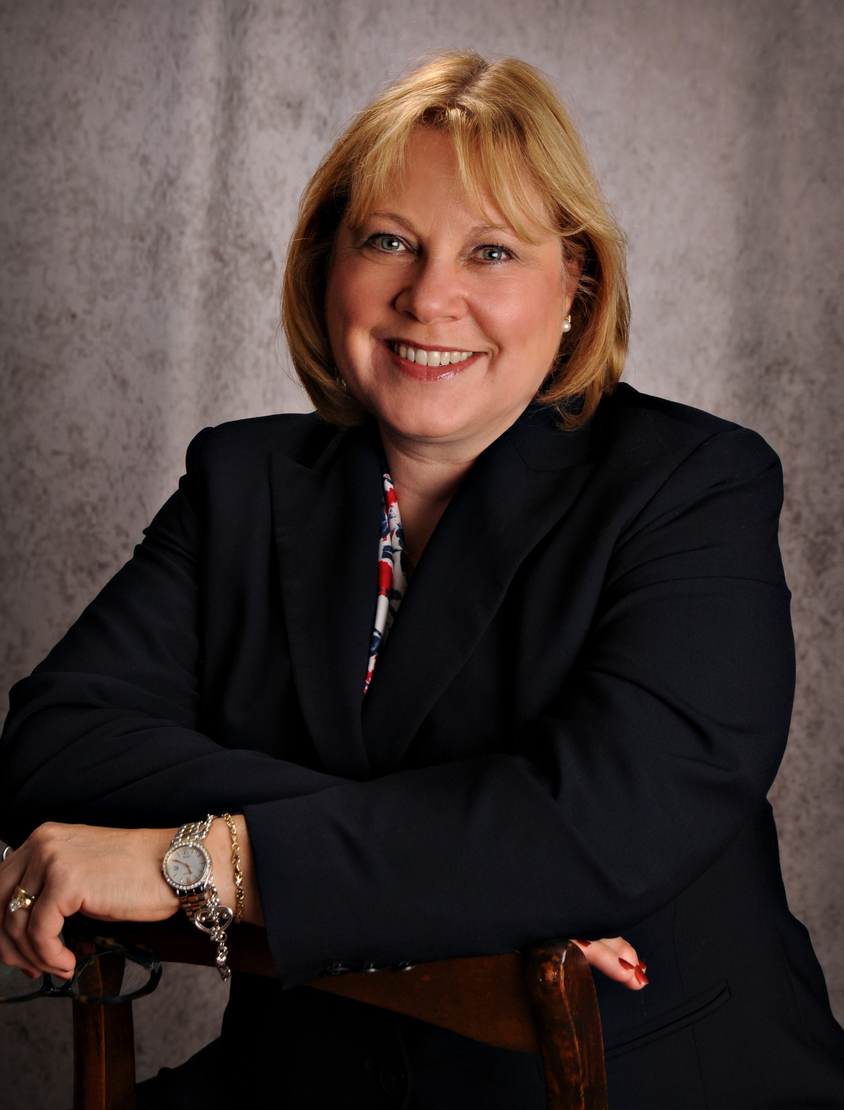
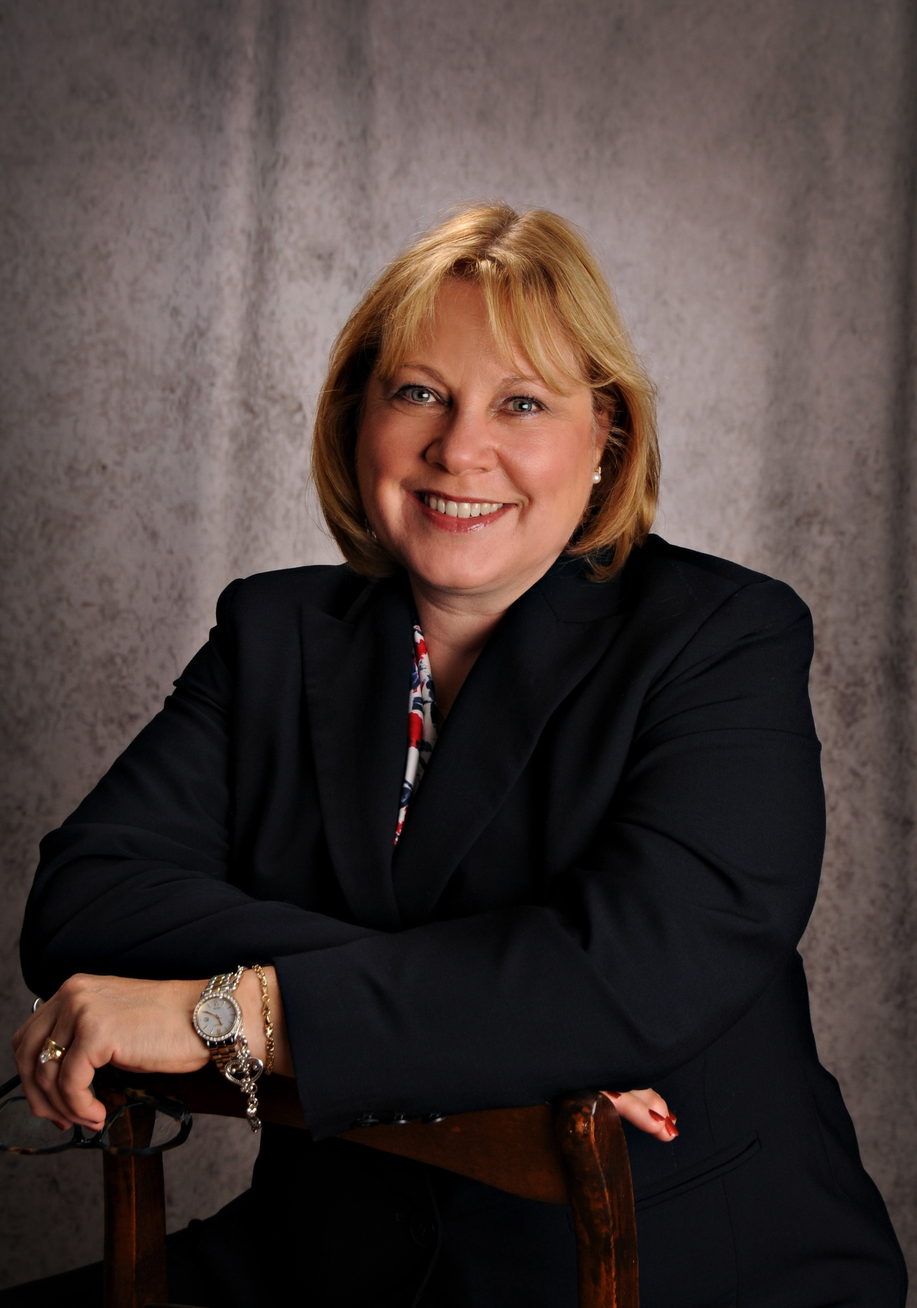
Fix pictures and formating

diff --git a/study_staff.html b/study_staff.html
@@ -18,45 +18,114 @@
     <span>Study Staff</span>
   </div>
   <div class="row">
-      <div class="column_profile" style="padding-left:10%">
+      <div class="column_profile" style="padding-left:12%">
         <div class="profile_header">
           Kristina Thomas Dreifuerst,<br> PhD, RN, CNE, ANEF, FAAN<br>
         </div>
-        <img class="profile_pic" src="fig/KTD.jpg">
-        <br> Here is some more text here.
+        <div class="container_pro_pic">
+          <img class="profile_pic" src="fig/KTD2.jpg">
+        </div>
+         Kristina Thomas Dreifuerst, PhD, RN, CNE ANEF, FAAN is the Director
+         of the PhD Program and an Associate Professor at Marquette University
+         College of Nursing in Milwaukee, WI. She is the author of Debriefing
+         for Meaningful Learning©. Her research is at the forefront of
+         disciplinary efforts to develop, use, and test innovative teaching
+         methods to improve students’ clinical reasoning skills, and also
+         investigate how teachers can best be prepared to use evidence-based
+         methods to enhance clinical teaching. Her work has been recognized for
+         leading initiatives to transform nursing education and she has
+         influenced pedagogical changes in educational practices locally,
+         nationally and internationally.
       </div>
+
       <div class="column_profile">
         <div class="profile_header">
           Cynthia Sherraden Bradley,<br> PhD, RN, CNE, CHSE<br>
         </div>
-        <img class="profile_pic" src="fig/CSherraden.jpg">
+        <div class="container_pro_pic">
+          <img class="profile_pic" src="fig/CSherraden2.jpg">
+        </div>
+        Cynthia Sherraden Bradley, PhD, RN, CNE, CHSE  earned a BSN from the
+        University of Kansas, an MSN from the University of Central Missouri,
+        and a PhD from Indiana University. She is an assistant professor and
+        the Director of Simulation at the University of Minnesota School of
+        Nursing. She has served as a consultant for simulation programs and has
+        presented at national and international nursing conferences. Her program
+         of research is focused on debriefing training and preparing faculty for
+          evidence-based teaching and learning methods in nursing education.
       </div>
+
       <div class="column_profile">
         <div class="profile_header">
           Kyle Johnson,<br> PhD, RN, CHSE<br>
         </div>
-        <img class="profile_pic" src="fig/KJohnson.png">
+        <div class="container_pro_pic">
+          <img class="profile_pic" src="fig/KJohnson2.png">
+        </div>
+          Brandon "Kyle" Johnson, PhD, RN, CHSE is an Assistant Professor of
+          Nursing and Clinical/Simulation Director for the Traditional
+          Undergraduate Program at Texas Tech University Health Sciences
+          Center in Lubbock, TX.  His research focuses on best practices
+          in simulation and use of observer roles, educational theory,
+          debriefing, and knowledge instrument development and testing.  He is
+          currently in advanced quantitative methods/statistical analysis
+          training at the Leadership Center for Nursing Education Research at
+          Widener University.  Dr. Johnson is a frequent workshop presenter and
+          is a consultant for simulation programs and statistical analysis.
       </div>
+
   </div>
+
   <div class="row">
-    <div class="column_profile" style="padding-left:10%">
+    <div class="column_profile" style="padding-left:12%">
       <div class="profile_header">
         Aimee Woda,<br> PhD, RN BC<br>
       </div>
-      <img class="profile_pic" src="fig/AWoda.png">
+      <div class="container_pro_pic">
+        <img class="profile_pic" src="fig/AWoda2.png">
+      </div>
+      Aimee Woda PhD, RN BC is an Assistant Professor at Marquette University
+      College of Nursing in Milwaukee, WI. Her research explores student
+      learning and debriefing using simulation pedagogy. Currently she is
+      focused on training debriefers how to effectively implement Debriefing
+      for Meaningful Learning (DML). With the research team she developed and is
+       evaluating a DML Train-The-Trainer program. She is also the author of
+       several manuscripts evaluating the impact of simulation and debriefing
+       on learner outcomes.
     </div>
+
     <div class="column_profile">
       <div class="profile_header">
         Jamie Hansen,<br> PhD, RN, CNE<br>
       </div>
-      <img class="profile_pic" src="fig/JHansen.jpg">
+      <div class="container_pro_pic">
+        <img class="profile_pic" src="fig/JHansen2.png">
+      </div>
+       Jamie Hansen, PhD, RN, CNE is a Clinical Associate Professor of Nursing
+       at Carroll University in Waukesha, WI. Her program of research focuses
+       on examining undergraduate nursing student outcomes following simulation
+       experiences.
     </div>
+
     <div class="column_profile">
       <div class="profile_header">
         Ann Loomis,<br> PhD, RN, CNEcl<br>
       </div>
-      <img class="profile_pic" src="fig/ALoomis.jpg">
+      <div class="container_pro_pic">
+        <img class="profile_pic" src="fig/ALoomis2.jpg">
+      </div>
+      Ann Loomis, PhD, RN, CNEcl is a Clinical Assistant Professor at Purdue
+      University in West Lafayette, IN. Ann earned her BSN from Purdue
+      University, an MSN in Nursing Leadership from the University of
+      Evansville, and a PhD in Nursing Education from the University of Northern
+       Colorado. Her dissertation interest was in debriefing particularly the
+       impact of Debriefing for Meaningful Learning (DML) on learner knowledge
+       retention and knowledge application. Ann’s research interest continues
+       through a multi-site study with Purdue University’s School of Nursing in
+        evidence-based debriefing and the impact on learner knowledge,
+        retention, and application in the clinical setting.    
     </div>
+
   </div>
 
 </body>

diff --git a/styles.css b/styles.css
@@ -1,6 +1,6 @@
 .title {
   color: #a6917e;
-  font-size: 3vw;
+  font-size: 2.5vw;
   text-align: center;
   padding-bottom: 30px;
 }
@@ -14,13 +14,19 @@ div.row {
 
 .column_profile {
   float: left;
-  padding: 4%;
+  padding-left: 4%;
+  padding-right: 4%;
   width: 20%;
-  font-size: 1vw;
+  font-size: 0.75vw;
+}
+
+.container_pro_pic {
+  width: 100%;
 }
 
 .profile_header {
-  font-size: 110%;
+  font-size: 125%;
+  font-weight: bold;
 }
 
 
@@ -34,8 +40,8 @@ img {
 }
 
 img.profile_pic {
-  width: 500px;
-  height: 300px;
+  width: 800px;
+  height: auto;
 
 }
 
@@ -44,8 +50,6 @@ img.profile_pic {
   content: "";
   display: table;
   clear: both;
-  padding: 20px;
-  padding-bottom:80px;
 }
 
 
@@ -72,7 +76,7 @@ body {
   color: black;
   padding: 14px 16px;
   text-decoration: none;
-  font-size: 1.25vw;
+  font-size: 1vw;
 }
 
 /* Change the color of links on hover */
@@ -92,7 +96,7 @@ body {
   text-align: center;
   overflow: hidden;
   white-space: nowrap;
-  font-size: 28px;
+  font-size: 1.35vw;
   color: #a6917e;
 }
 
